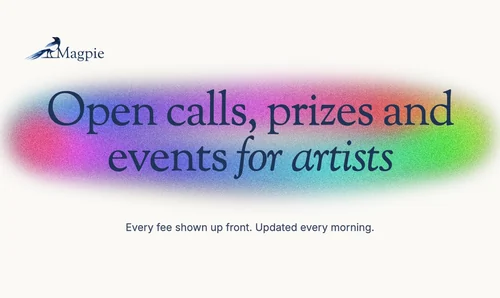
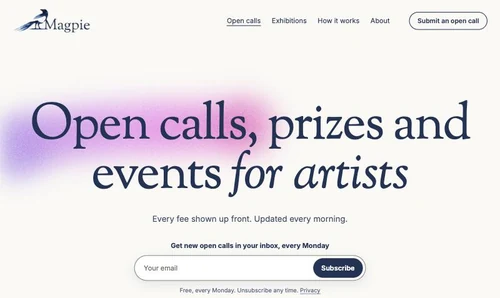
Magpie card: the live home page instead of the og image
The og:image reads heavy as a thumbnail: its rainbow wash is saturated right
behind dark navy serif, and the fit to 1174x700 added mirrored bands of paper
top and bottom. The card is now a capture of magpie.cool itself, which is the
same artwork handled more lightly, with the logo, the navigation and the
Monday sign-up in frame. Mean luminance 232.5 against the old 214.8.

The site's date strip is sticky, so a plain capture would have baked
"Tuesday, 24 November 2026" into the card for good. .today-strip is hidden
for the screenshot only; nothing on her site changes.

One cost, stated rather than hidden: the browser pane caps a capture at 800px
wide, so this card tops out at 800 where the others reach 1174. The box is
601 CSS px, so it is right at 1x and will look softer than its neighbours on
a 2x display. width, height and the srcset now say 800 rather than promising
a 1174 file that does not exist. A 2x screenshot taken on her own machine
would fix it, and the filenames are already in place for a swap.

diff --git a/ai-projects/index.html b/ai-projects/index.html
@@ -103,7 +103,7 @@
 </style></div><div class="yellow-circle-hero"></div><div class="blue-circle"></div><div class="large-pink-circle"></div></section><section id="selected-works" class="section---webflow-intro"><div id="webflow-intro-2" data-w-id="42c83ce9-e06b-a8b4-5723-9e30ec0290d4" class="case-study-block-title big-text webflow"><h2 data-w-id="42c83ce9-e06b-a8b4-5723-9e30ec0290d5" class="heading-23">Selected Works</h2><div data-w-id="42c83ce9-e06b-a8b4-5723-9e30ec0290d7" class="divider center"></div><div id="ai-projects" data-w-id="42c83ce9-e06b-a8b4-5723-9e30ec0290d8" class="intro-big-text webflow-projects">AI Projects</div></div></section><section class="section---selected-works">
 <!-- AI project cards. Replace each placeholder SVG with a real image of the same
      1174x1020 ratio, and edit the copy freely. -->
-<div class="home-project-images-container ai-projects-grid"><a href="https://builderbee.club" target="_blank" rel="noopener" style="--pc: #7B00DA" class="small-case-study-link-block ai-project-card w-inline-block"><img src="../assets/images/ai-projects/builderbee-card.webp" width="1174" height="700" loading="lazy" sizes="(max-width: 767px) 100vw, 681px" srcset="../assets/images/ai-projects/builderbee-card-p-500.webp 500w, ../assets/images/ai-projects/builderbee-card-p-800.webp 800w, ../assets/images/ai-projects/builderbee-card.webp 1174w" alt="BuilderBee: the wordmark and pixel-art bees on a pale halftone honeycomb, above the words Find your next hackathon, with hackathon underlined in purple" class="pc-media"/><div class="pc-body"><h2 class="pc-title">BuilderBee</h2><p class="pc-industry"><strong>Industry:</strong> Tech Events &amp; Community</p><p class="pc-desc"><strong>Tech events for women and non-binary builders, worldwide.</strong> A free calendar of hackathons, buildathons, workshops and meetups. An AI scout checks Luma, Eventbrite and organisers&#x2019; own pages every morning, and lists an event only once it is confirmed on the official page. Built with Tracey Windsor.</p><div class="pc-tags"><span class="pc-tag">AI Agent</span><span class="pc-tag">Claude Code</span><span class="pc-tag">Automation</span><span class="pc-tag">Community</span><span class="pc-tag">Events</span><span class="pc-tag">Product Design</span><span class="pc-tag">Branding</span><span class="pc-tag">Web App</span></div><div class="ai-live-link">View live project</div></div></a><a href="https://magpie.cool" target="_blank" rel="noopener" style="--pc: #1f3456" class="small-case-study-link-block ai-project-card w-inline-block"><img src="../assets/images/ai-projects/magpie-card.webp" width="1174" height="700" loading="lazy" sizes="(max-width: 767px) 100vw, 681px" srcset="../assets/images/ai-projects/magpie-card-p-500.webp 500w, ../assets/images/ai-projects/magpie-card-p-800.webp 800w, ../assets/images/ai-projects/magpie-card.webp 1174w" alt="Magpie: the magpie logo above the words Open calls, prizes and events for artists, set in a serif over a soft rainbow wash on warm paper" class="pc-media"/><div class="pc-body"><h2 class="pc-title">Magpie</h2><p class="pc-industry"><strong>Industry:</strong> Art &amp; Open Calls</p><p class="pc-desc"><strong>Open calls for artists, every fee up front.</strong> A free calendar of prizes, residencies, grants and commissions. Every listing shows what it costs to enter and anything you would pay if selected, and pay-to-exhibit operators are kept in their own row with a price on them.</p><div class="pc-tags"><span class="pc-tag">AI Agent</span><span class="pc-tag">Automation</span><span class="pc-tag">Art</span><span class="pc-tag">Transparency</span><span class="pc-tag">Structured Data</span><span class="pc-tag">React</span><span class="pc-tag">TypeScript</span><span class="pc-tag">Web App</span></div><div class="ai-live-link">View live project</div></div></a><div style="--pc: #575ecf" class="small-case-study-link-block ai-project-card ai-project-card--links"><img src="../assets/images/ai-projects/cheer-card.webp" loading="lazy" sizes="(max-width: 767px) 100vw, 681px" srcset="../assets/images/ai-projects/cheer-card-p-500.webp 500w, ../assets/images/ai-projects/cheer-card-p-800.webp 800w, ../assets/images/ai-projects/cheer-card.webp 1174w" alt="Cheer: the wordmark beside a phone showing the onboarding screen, log the small stuff, surrounded by six fluffy pom-pom characters" class="pc-media"/><div class="pc-body"><h2 class="pc-title">Cheer</h2><p class="pc-industry"><strong>Industry:</strong> Wellbeing</p><p class="pc-desc"><strong>A support network, not a social network.</strong> A small, private squad cheers on the things that are hard to do: a job application, a walk on a low day, a habit worth keeping. No followers, no feed, no like counts.</p><div class="pc-tags"><span class="pc-tag">Gen AI</span><span class="pc-tag">LLM Moderation</span><span class="pc-tag">Wellbeing</span><span class="pc-tag">Privacy by Design</span><span class="pc-tag">Accessibility</span><span class="pc-tag">Hackathon</span><span class="pc-tag">Product Design</span><span class="pc-tag">Web App</span></div><div class="ai-cta-row"><a href="https://getcheer.lovable.app" target="_blank" rel="noopener" class="ai-live-link">View live project</a><a href="../case-studies/cheer-case-study/" class="ai-second-link">Case Study</a></div></div></div><div style="--pc: #127a64" class="small-case-study-link-block ai-project-card ai-project-card--links"><img src="../assets/images/ai-projects/vera-card.webp" loading="lazy" sizes="(max-width: 767px) 100vw, 681px" srcset="../assets/images/ai-projects/vera-card-p-500.webp 500w, ../assets/images/ai-projects/vera-card-p-800.webp 800w, ../assets/images/ai-projects/vera-card.webp 1174w" alt="Vera: real advice, better choices. A claim score of 60 beside the app on a phone, checking an influencer’s collagen supplement post against the evidence" class="pc-media"/><div class="pc-body"><h2 class="pc-title">Vera</h2><p class="pc-industry"><strong>Industry:</strong> Health &amp; Nutrition</p><p class="pc-desc"><strong>Score the claim, not the influencer.</strong> A supplement fact-checker built in two days at the ZOE hackathon.</p><div class="pc-tags"><span class="pc-tag">Gen AI</span><span class="pc-tag">LLM</span><span class="pc-tag">Health</span><span class="pc-tag">Fact-checking</span><span class="pc-tag">Hackathon</span><span class="pc-tag">Web App</span><span class="pc-tag">Product Design</span><span class="pc-tag">Mobile Prototype</span></div><div class="ai-cta-row"><a href="https://irinacsapo.github.io/zoe-hackathon-app/" target="_blank" rel="noopener" class="ai-live-link">View live project</a><a href="https://irinacsapo.github.io/zoe-hackathon-app/case-study.html" target="_blank" rel="noopener" class="ai-second-link">Case Study</a></div></div></div><a href="https://www.cosmicpets.love/" target="_blank" rel="noopener" style="--pc: #7b4fd6" class="small-case-study-link-block ai-project-card w-inline-block"><img src="../assets/images/ai-projects/cosmic-pets-card.webp" width="1174" height="700" loading="lazy" sizes="(max-width: 767px) 100vw, 681px" srcset="../assets/images/ai-projects/cosmic-pets-card-p-500.webp 500w, ../assets/images/ai-projects/cosmic-pets-card-p-800.webp 800w, ../assets/images/ai-projects/cosmic-pets-card.webp 1174w" alt="Cosmic Pets: turn your pet into a cosmic portrait. A black cat framed by flowers, crystals and planets, with other pet portraits around it" class="pc-media"/><div class="pc-body"><h2 class="pc-title">Cosmic Pets</h2><p class="pc-industry"><strong>Industry:</strong> Pets &amp; Personalised Art</p><p class="pc-desc"><strong>Custom cosmic portraits of your pets.</strong> Upload a photo and your pet is reimagined as a one-of-a-kind cosmic portrait.</p><div class="pc-tags"><span class="pc-tag">Gen AI</span><span class="pc-tag">Image Generation</span><span class="pc-tag">E-commerce</span><span class="pc-tag">Product Design</span><span class="pc-tag">Branding</span><span class="pc-tag">Storytelling</span><span class="pc-tag">Web App</span></div><div class="ai-live-link">View live project</div></div></a><a href="https://letters.irina.love" target="_blank" rel="noopener" style="--pc: #a47cd6" class="small-case-study-link-block ai-project-card w-inline-block"><img src="../assets/images/ai-projects/letters-card.webp" width="1174" height="700" loading="lazy" sizes="(max-width: 767px) 100vw, 681px" srcset="../assets/images/ai-projects/letters-card-p-500.webp 500w, ../assets/images/ai-projects/letters-card-p-800.webp 800w, ../assets/images/ai-projects/letters-card.webp 1174w" alt="Letters from Your Future Self: write what is on your heart, your future self will write back. A person sitting in a meadow above the clouds at dusk as handwritten letters drift past" class="pc-media"/><div class="pc-body"><h2 class="pc-title">Letters from Your Future Self</h2><p class="pc-industry"><strong>Industry:</strong> Wellbeing</p><p class="pc-desc"><strong>A mood, reframed.</strong> Share how you feel today and receive a letter of perspective from the person you are becoming.</p><div class="pc-tags"><span class="pc-tag">Gen AI</span><span class="pc-tag">LLM</span><span class="pc-tag">Wellbeing</span><span class="pc-tag">Storytelling</span><span class="pc-tag">Web App</span><span class="pc-tag">Image Generation</span><span class="pc-tag">Product Design</span></div><div class="ai-live-link">View live project</div></div></a><a href="https://soundtrack.irina.love" target="_blank" rel="noopener" style="--pc: #1f64e0" class="small-case-study-link-block ai-project-card w-inline-block"><img src="../assets/images/ai-projects/soundtrack-card.webp" width="1174" height="700" loading="lazy" sizes="(max-width: 767px) 100vw, 681px" srcset="../assets/images/ai-projects/soundtrack-card-p-500.webp 500w, ../assets/images/ai-projects/soundtrack-card-p-800.webp 800w, ../assets/images/ai-projects/soundtrack-card.webp 1174w" alt="Soundtrack of Your Life: your life, in its own soundtrack. Four hand-made album covers for original songs, each with a play button, against a purple night sky" class="pc-media"/><div class="pc-body"><h2 class="pc-title">Soundtrack of Your Life</h2><p class="pc-industry"><strong>Industry:</strong> Music &amp; Wellbeing</p><p class="pc-desc"><strong>A moment, recomposed.</strong> Tell it about a moment in your life and it composes an original piece of music for it.</p><div class="pc-tags"><span class="pc-tag">Gen AI</span><span class="pc-tag">Music Generation</span><span class="pc-tag">Storytelling</span><span class="pc-tag">Web App</span><span class="pc-tag">Image Generation</span><span class="pc-tag">Product Design</span><span class="pc-tag">LLM</span></div><div class="ai-live-link">View live project</div></div></a><a href="https://bloom.irina.love" target="_blank" rel="noopener" style="--pc: #c0577f" class="small-case-study-link-block ai-project-card w-inline-block"><img src="../assets/images/ai-projects/bloom-card.webp" width="1174" height="700" loading="lazy" sizes="(max-width: 767px) 100vw, 681px" srcset="../assets/images/ai-projects/bloom-card-p-500.webp 500w, ../assets/images/ai-projects/bloom-card-p-800.webp 800w, ../assets/images/ai-projects/bloom-card.webp 1174w" alt="Bloom after Rain: a gentle space for your next chapter. A dew-covered pink peony above a valley at golden hour, petals falling, beside an invitation to begin your journey" class="pc-media"/><div class="pc-body"><h2 class="pc-title">Bloom after Rain</h2><p class="pc-industry"><strong>Industry:</strong> Wellbeing</p><p class="pc-desc"><strong>A loss, regrown.</strong> Turns a loss into a flower that grows in a shared garden of resilience.</p><div class="pc-tags"><span class="pc-tag">Gen AI</span><span class="pc-tag">Image Generation</span><span class="pc-tag">Wellbeing</span><span class="pc-tag">Community</span><span class="pc-tag">Web App</span><span class="pc-tag">LLM</span><span class="pc-tag">Storytelling</span><span class="pc-tag">Product Design</span></div><div class="ai-live-link">View live project</div></div></a></div></section><div class="section---cv border-top no-padding-vertical"><div class="wrapper"><div class="footer-v3"><div class="footer-v3-logo"><a href="../" class="brand no-padding w-nav-brand"><img src="../assets/images/5e9f68d617861b8c6539ccd4_IC_logo_2.svg" alt="Irina Csapo logo" class="image-18"/></a></div><div class="footer-v3-nav"><a href="../" class="footer-v3-link">Home</a><a href="../ai-projects/" class="footer-v3-link">AI Projects</a><a href="../photography/" class="footer-v3-link">Photography</a><a href="../art/" class="footer-v3-link">Art</a><a href="../about/" class="footer-v3-link">About</a><a href="../assets/docs/6a8f880410adf144d77e3d93_v4---Senior-Product-Designer---Irina-Csapo---CV---August-2026.pdf" target="_blank" class="footer-v3-link">CV</a><a href="../contact/" class="footer-v3-link">Contact</a></div><div class="social-icons footer-v3-icons"><a href="https://www.linkedin.com/in/irinacsapo/" target="_blank" rel="noopener" class="social-link facebook w-inline-block"><img src="../assets/images/5eb5fcdaf92b5813c30c4be8_linkedin.svg" width="18" alt="linkedin" class="social-icon-small"/></a><a href="https://www.instagram.com/irina_csapo_art" target="_blank" rel="noopener" class="social-link instagram w-inline-block"><img src="../assets/images/5e9608862c6c0bce460542a0_instagram-icon-white.svg" alt="instagram" class="social-icon-small"/></a><a href="https://irina.love/" target="_blank" rel="noopener" class="social-link dribbble w-inline-block"><img src="../assets/images/5e9608862c6c0b8aea0542ff_store-icon.svg" alt="redbubble" class="social-icon-small"/></a><a href="https://linktr.ee/irina.csapo" target="_blank" rel="noopener" class="social-link behance w-inline-block"><img src="../assets/images/5e9608862c6c0b91bd05429e_rocket-icon.svg" alt="society6" class="social-icon-small"/></a></div><div class="footer-bottom"><div class="footer-bottom-left"><div class="footer-text-left">Created with <span class="heart-icon">love</span> by Irina Csapo</div></div><div class="footer-bottom-right"><div class="text-block-3">© 2026 Irina Csapo – Creative Portfolio. All rights reserved.</div></div></div></div></div></div><script src="../assets/js/jquery.min-2.js" type="text/javascript" crossorigin="anonymous"></script><script src="../assets/js/webflow.schunk.36b8fb49256177c8.js" type="text/javascript" crossorigin="anonymous"></script><script src="../assets/js/webflow.schunk.9f9237bf333f1192.js" type="text/javascript" crossorigin="anonymous"></script><script src="../assets/js/webflow.schunk.bdf58efcee47c042.js" type="text/javascript" crossorigin="anonymous"></script><script src="../assets/js/webflow.58e1bac0.3ac1f7c567b3c54e.js" type="text/javascript" crossorigin="anonymous"></script><script src="../assets/js/gsap/gsap.min.js" type="text/javascript"></script><script src="../assets/js/gsap/SplitText.min.js" type="text/javascript"></script><script src="../assets/js/gsap/ScrollTrigger.min.js" type="text/javascript"></script><!-- Flowbase Cookie Script -->
+<div class="home-project-images-container ai-projects-grid"><a href="https://builderbee.club" target="_blank" rel="noopener" style="--pc: #7B00DA" class="small-case-study-link-block ai-project-card w-inline-block"><img src="../assets/images/ai-projects/builderbee-card.webp" width="1174" height="700" loading="lazy" sizes="(max-width: 767px) 100vw, 681px" srcset="../assets/images/ai-projects/builderbee-card-p-500.webp 500w, ../assets/images/ai-projects/builderbee-card-p-800.webp 800w, ../assets/images/ai-projects/builderbee-card.webp 1174w" alt="BuilderBee: the wordmark and pixel-art bees on a pale halftone honeycomb, above the words Find your next hackathon, with hackathon underlined in purple" class="pc-media"/><div class="pc-body"><h2 class="pc-title">BuilderBee</h2><p class="pc-industry"><strong>Industry:</strong> Tech Events &amp; Community</p><p class="pc-desc"><strong>Tech events for women and non-binary builders, worldwide.</strong> A free calendar of hackathons, buildathons, workshops and meetups. An AI scout checks Luma, Eventbrite and organisers&#x2019; own pages every morning, and lists an event only once it is confirmed on the official page. Built with Tracey Windsor.</p><div class="pc-tags"><span class="pc-tag">AI Agent</span><span class="pc-tag">Claude Code</span><span class="pc-tag">Automation</span><span class="pc-tag">Community</span><span class="pc-tag">Events</span><span class="pc-tag">Product Design</span><span class="pc-tag">Branding</span><span class="pc-tag">Web App</span></div><div class="ai-live-link">View live project</div></div></a><a href="https://magpie.cool" target="_blank" rel="noopener" style="--pc: #1f3456" class="small-case-study-link-block ai-project-card w-inline-block"><img src="../assets/images/ai-projects/magpie-card.webp" width="800" height="477" loading="lazy" sizes="(max-width: 767px) 100vw, 681px" srcset="../assets/images/ai-projects/magpie-card-p-500.webp 500w, ../assets/images/ai-projects/magpie-card-p-800.webp 800w" alt="The Magpie home page: the magpie logo and navigation above the words Open calls, prizes and events for artists, over a soft pastel wash, with the Monday email sign-up below" class="pc-media"/><div class="pc-body"><h2 class="pc-title">Magpie</h2><p class="pc-industry"><strong>Industry:</strong> Art &amp; Open Calls</p><p class="pc-desc"><strong>Open calls for artists, every fee up front.</strong> A free calendar of prizes, residencies, grants and commissions. Every listing shows what it costs to enter and anything you would pay if selected, and pay-to-exhibit operators are kept in their own row with a price on them.</p><div class="pc-tags"><span class="pc-tag">AI Agent</span><span class="pc-tag">Automation</span><span class="pc-tag">Art</span><span class="pc-tag">Transparency</span><span class="pc-tag">Structured Data</span><span class="pc-tag">React</span><span class="pc-tag">TypeScript</span><span class="pc-tag">Web App</span></div><div class="ai-live-link">View live project</div></div></a><div style="--pc: #575ecf" class="small-case-study-link-block ai-project-card ai-project-card--links"><img src="../assets/images/ai-projects/cheer-card.webp" loading="lazy" sizes="(max-width: 767px) 100vw, 681px" srcset="../assets/images/ai-projects/cheer-card-p-500.webp 500w, ../assets/images/ai-projects/cheer-card-p-800.webp 800w, ../assets/images/ai-projects/cheer-card.webp 1174w" alt="Cheer: the wordmark beside a phone showing the onboarding screen, log the small stuff, surrounded by six fluffy pom-pom characters" class="pc-media"/><div class="pc-body"><h2 class="pc-title">Cheer</h2><p class="pc-industry"><strong>Industry:</strong> Wellbeing</p><p class="pc-desc"><strong>A support network, not a social network.</strong> A small, private squad cheers on the things that are hard to do: a job application, a walk on a low day, a habit worth keeping. No followers, no feed, no like counts.</p><div class="pc-tags"><span class="pc-tag">Gen AI</span><span class="pc-tag">LLM Moderation</span><span class="pc-tag">Wellbeing</span><span class="pc-tag">Privacy by Design</span><span class="pc-tag">Accessibility</span><span class="pc-tag">Hackathon</span><span class="pc-tag">Product Design</span><span class="pc-tag">Web App</span></div><div class="ai-cta-row"><a href="https://getcheer.lovable.app" target="_blank" rel="noopener" class="ai-live-link">View live project</a><a href="../case-studies/cheer-case-study/" class="ai-second-link">Case Study</a></div></div></div><div style="--pc: #127a64" class="small-case-study-link-block ai-project-card ai-project-card--links"><img src="../assets/images/ai-projects/vera-card.webp" loading="lazy" sizes="(max-width: 767px) 100vw, 681px" srcset="../assets/images/ai-projects/vera-card-p-500.webp 500w, ../assets/images/ai-projects/vera-card-p-800.webp 800w, ../assets/images/ai-projects/vera-card.webp 1174w" alt="Vera: real advice, better choices. A claim score of 60 beside the app on a phone, checking an influencer’s collagen supplement post against the evidence" class="pc-media"/><div class="pc-body"><h2 class="pc-title">Vera</h2><p class="pc-industry"><strong>Industry:</strong> Health &amp; Nutrition</p><p class="pc-desc"><strong>Score the claim, not the influencer.</strong> A supplement fact-checker built in two days at the ZOE hackathon.</p><div class="pc-tags"><span class="pc-tag">Gen AI</span><span class="pc-tag">LLM</span><span class="pc-tag">Health</span><span class="pc-tag">Fact-checking</span><span class="pc-tag">Hackathon</span><span class="pc-tag">Web App</span><span class="pc-tag">Product Design</span><span class="pc-tag">Mobile Prototype</span></div><div class="ai-cta-row"><a href="https://irinacsapo.github.io/zoe-hackathon-app/" target="_blank" rel="noopener" class="ai-live-link">View live project</a><a href="https://irinacsapo.github.io/zoe-hackathon-app/case-study.html" target="_blank" rel="noopener" class="ai-second-link">Case Study</a></div></div></div><a href="https://www.cosmicpets.love/" target="_blank" rel="noopener" style="--pc: #7b4fd6" class="small-case-study-link-block ai-project-card w-inline-block"><img src="../assets/images/ai-projects/cosmic-pets-card.webp" width="1174" height="700" loading="lazy" sizes="(max-width: 767px) 100vw, 681px" srcset="../assets/images/ai-projects/cosmic-pets-card-p-500.webp 500w, ../assets/images/ai-projects/cosmic-pets-card-p-800.webp 800w, ../assets/images/ai-projects/cosmic-pets-card.webp 1174w" alt="Cosmic Pets: turn your pet into a cosmic portrait. A black cat framed by flowers, crystals and planets, with other pet portraits around it" class="pc-media"/><div class="pc-body"><h2 class="pc-title">Cosmic Pets</h2><p class="pc-industry"><strong>Industry:</strong> Pets &amp; Personalised Art</p><p class="pc-desc"><strong>Custom cosmic portraits of your pets.</strong> Upload a photo and your pet is reimagined as a one-of-a-kind cosmic portrait.</p><div class="pc-tags"><span class="pc-tag">Gen AI</span><span class="pc-tag">Image Generation</span><span class="pc-tag">E-commerce</span><span class="pc-tag">Product Design</span><span class="pc-tag">Branding</span><span class="pc-tag">Storytelling</span><span class="pc-tag">Web App</span></div><div class="ai-live-link">View live project</div></div></a><a href="https://letters.irina.love" target="_blank" rel="noopener" style="--pc: #a47cd6" class="small-case-study-link-block ai-project-card w-inline-block"><img src="../assets/images/ai-projects/letters-card.webp" width="1174" height="700" loading="lazy" sizes="(max-width: 767px) 100vw, 681px" srcset="../assets/images/ai-projects/letters-card-p-500.webp 500w, ../assets/images/ai-projects/letters-card-p-800.webp 800w, ../assets/images/ai-projects/letters-card.webp 1174w" alt="Letters from Your Future Self: write what is on your heart, your future self will write back. A person sitting in a meadow above the clouds at dusk as handwritten letters drift past" class="pc-media"/><div class="pc-body"><h2 class="pc-title">Letters from Your Future Self</h2><p class="pc-industry"><strong>Industry:</strong> Wellbeing</p><p class="pc-desc"><strong>A mood, reframed.</strong> Share how you feel today and receive a letter of perspective from the person you are becoming.</p><div class="pc-tags"><span class="pc-tag">Gen AI</span><span class="pc-tag">LLM</span><span class="pc-tag">Wellbeing</span><span class="pc-tag">Storytelling</span><span class="pc-tag">Web App</span><span class="pc-tag">Image Generation</span><span class="pc-tag">Product Design</span></div><div class="ai-live-link">View live project</div></div></a><a href="https://soundtrack.irina.love" target="_blank" rel="noopener" style="--pc: #1f64e0" class="small-case-study-link-block ai-project-card w-inline-block"><img src="../assets/images/ai-projects/soundtrack-card.webp" width="1174" height="700" loading="lazy" sizes="(max-width: 767px) 100vw, 681px" srcset="../assets/images/ai-projects/soundtrack-card-p-500.webp 500w, ../assets/images/ai-projects/soundtrack-card-p-800.webp 800w, ../assets/images/ai-projects/soundtrack-card.webp 1174w" alt="Soundtrack of Your Life: your life, in its own soundtrack. Four hand-made album covers for original songs, each with a play button, against a purple night sky" class="pc-media"/><div class="pc-body"><h2 class="pc-title">Soundtrack of Your Life</h2><p class="pc-industry"><strong>Industry:</strong> Music &amp; Wellbeing</p><p class="pc-desc"><strong>A moment, recomposed.</strong> Tell it about a moment in your life and it composes an original piece of music for it.</p><div class="pc-tags"><span class="pc-tag">Gen AI</span><span class="pc-tag">Music Generation</span><span class="pc-tag">Storytelling</span><span class="pc-tag">Web App</span><span class="pc-tag">Image Generation</span><span class="pc-tag">Product Design</span><span class="pc-tag">LLM</span></div><div class="ai-live-link">View live project</div></div></a><a href="https://bloom.irina.love" target="_blank" rel="noopener" style="--pc: #c0577f" class="small-case-study-link-block ai-project-card w-inline-block"><img src="../assets/images/ai-projects/bloom-card.webp" width="1174" height="700" loading="lazy" sizes="(max-width: 767px) 100vw, 681px" srcset="../assets/images/ai-projects/bloom-card-p-500.webp 500w, ../assets/images/ai-projects/bloom-card-p-800.webp 800w, ../assets/images/ai-projects/bloom-card.webp 1174w" alt="Bloom after Rain: a gentle space for your next chapter. A dew-covered pink peony above a valley at golden hour, petals falling, beside an invitation to begin your journey" class="pc-media"/><div class="pc-body"><h2 class="pc-title">Bloom after Rain</h2><p class="pc-industry"><strong>Industry:</strong> Wellbeing</p><p class="pc-desc"><strong>A loss, regrown.</strong> Turns a loss into a flower that grows in a shared garden of resilience.</p><div class="pc-tags"><span class="pc-tag">Gen AI</span><span class="pc-tag">Image Generation</span><span class="pc-tag">Wellbeing</span><span class="pc-tag">Community</span><span class="pc-tag">Web App</span><span class="pc-tag">LLM</span><span class="pc-tag">Storytelling</span><span class="pc-tag">Product Design</span></div><div class="ai-live-link">View live project</div></div></a></div></section><div class="section---cv border-top no-padding-vertical"><div class="wrapper"><div class="footer-v3"><div class="footer-v3-logo"><a href="../" class="brand no-padding w-nav-brand"><img src="../assets/images/5e9f68d617861b8c6539ccd4_IC_logo_2.svg" alt="Irina Csapo logo" class="image-18"/></a></div><div class="footer-v3-nav"><a href="../" class="footer-v3-link">Home</a><a href="../ai-projects/" class="footer-v3-link">AI Projects</a><a href="../photography/" class="footer-v3-link">Photography</a><a href="../art/" class="footer-v3-link">Art</a><a href="../about/" class="footer-v3-link">About</a><a href="../assets/docs/6a8f880410adf144d77e3d93_v4---Senior-Product-Designer---Irina-Csapo---CV---August-2026.pdf" target="_blank" class="footer-v3-link">CV</a><a href="../contact/" class="footer-v3-link">Contact</a></div><div class="social-icons footer-v3-icons"><a href="https://www.linkedin.com/in/irinacsapo/" target="_blank" rel="noopener" class="social-link facebook w-inline-block"><img src="../assets/images/5eb5fcdaf92b5813c30c4be8_linkedin.svg" width="18" alt="linkedin" class="social-icon-small"/></a><a href="https://www.instagram.com/irina_csapo_art" target="_blank" rel="noopener" class="social-link instagram w-inline-block"><img src="../assets/images/5e9608862c6c0bce460542a0_instagram-icon-white.svg" alt="instagram" class="social-icon-small"/></a><a href="https://irina.love/" target="_blank" rel="noopener" class="social-link dribbble w-inline-block"><img src="../assets/images/5e9608862c6c0b8aea0542ff_store-icon.svg" alt="redbubble" class="social-icon-small"/></a><a href="https://linktr.ee/irina.csapo" target="_blank" rel="noopener" class="social-link behance w-inline-block"><img src="../assets/images/5e9608862c6c0b91bd05429e_rocket-icon.svg" alt="society6" class="social-icon-small"/></a></div><div class="footer-bottom"><div class="footer-bottom-left"><div class="footer-text-left">Created with <span class="heart-icon">love</span> by Irina Csapo</div></div><div class="footer-bottom-right"><div class="text-block-3">© 2026 Irina Csapo – Creative Portfolio. All rights reserved.</div></div></div></div></div></div><script src="../assets/js/jquery.min-2.js" type="text/javascript" crossorigin="anonymous"></script><script src="../assets/js/webflow.schunk.36b8fb49256177c8.js" type="text/javascript" crossorigin="anonymous"></script><script src="../assets/js/webflow.schunk.9f9237bf333f1192.js" type="text/javascript" crossorigin="anonymous"></script><script src="../assets/js/webflow.schunk.bdf58efcee47c042.js" type="text/javascript" crossorigin="anonymous"></script><script src="../assets/js/webflow.58e1bac0.3ac1f7c567b3c54e.js" type="text/javascript" crossorigin="anonymous"></script><script src="../assets/js/gsap/gsap.min.js" type="text/javascript"></script><script src="../assets/js/gsap/SplitText.min.js" type="text/javascript"></script><script src="../assets/js/gsap/ScrollTrigger.min.js" type="text/javascript"></script><!-- Flowbase Cookie Script -->
 <script>
 // default time is 90 days
 flowBaseCookie('#cookieBlock', '#accept', '#clr', 30);
